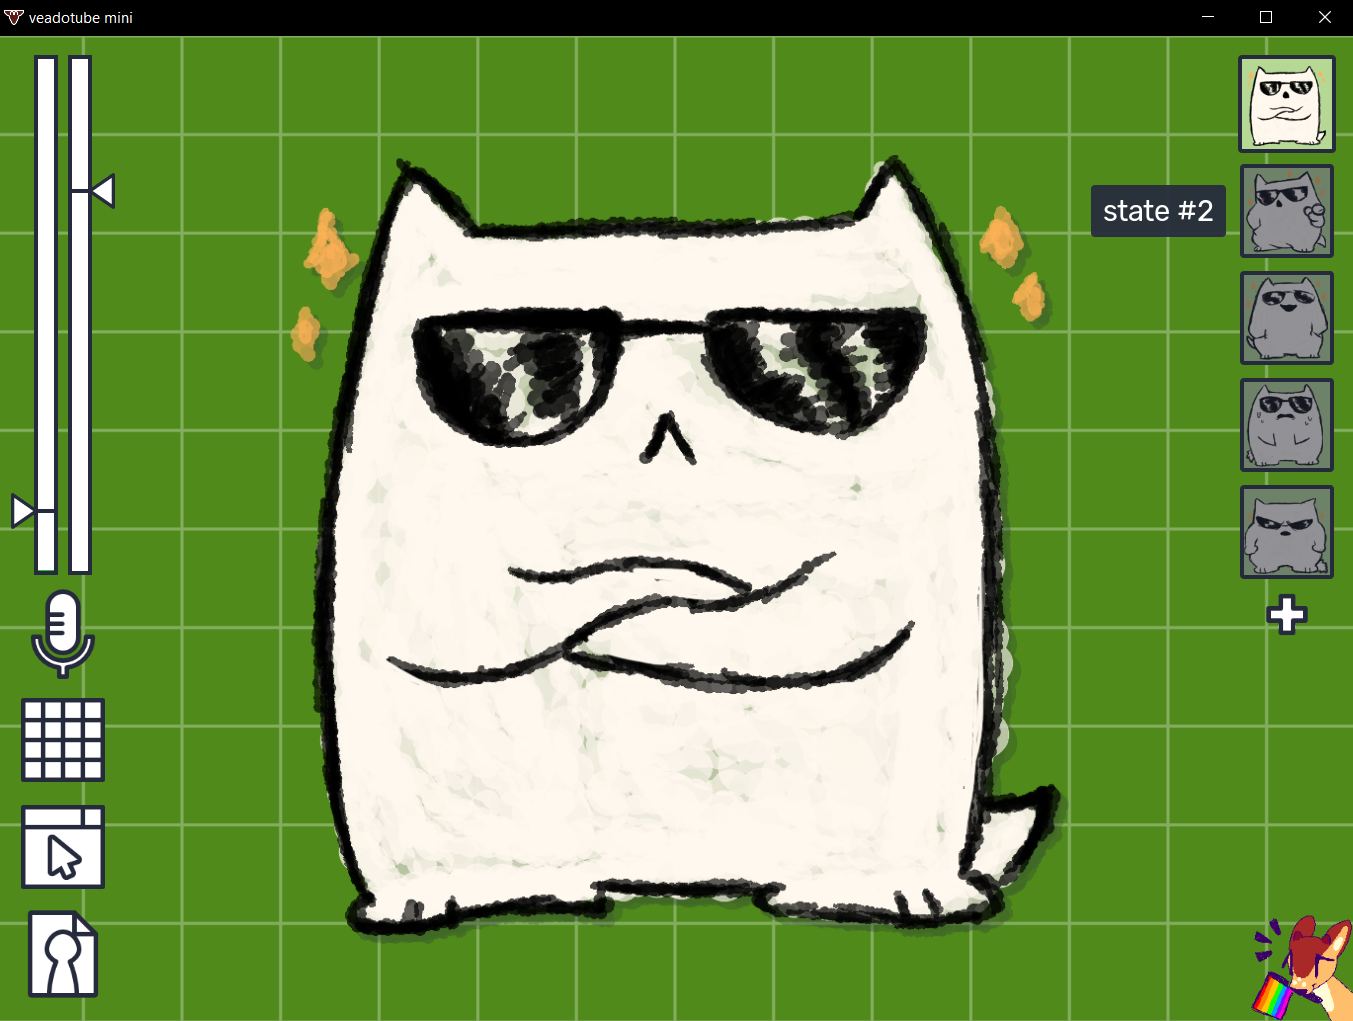
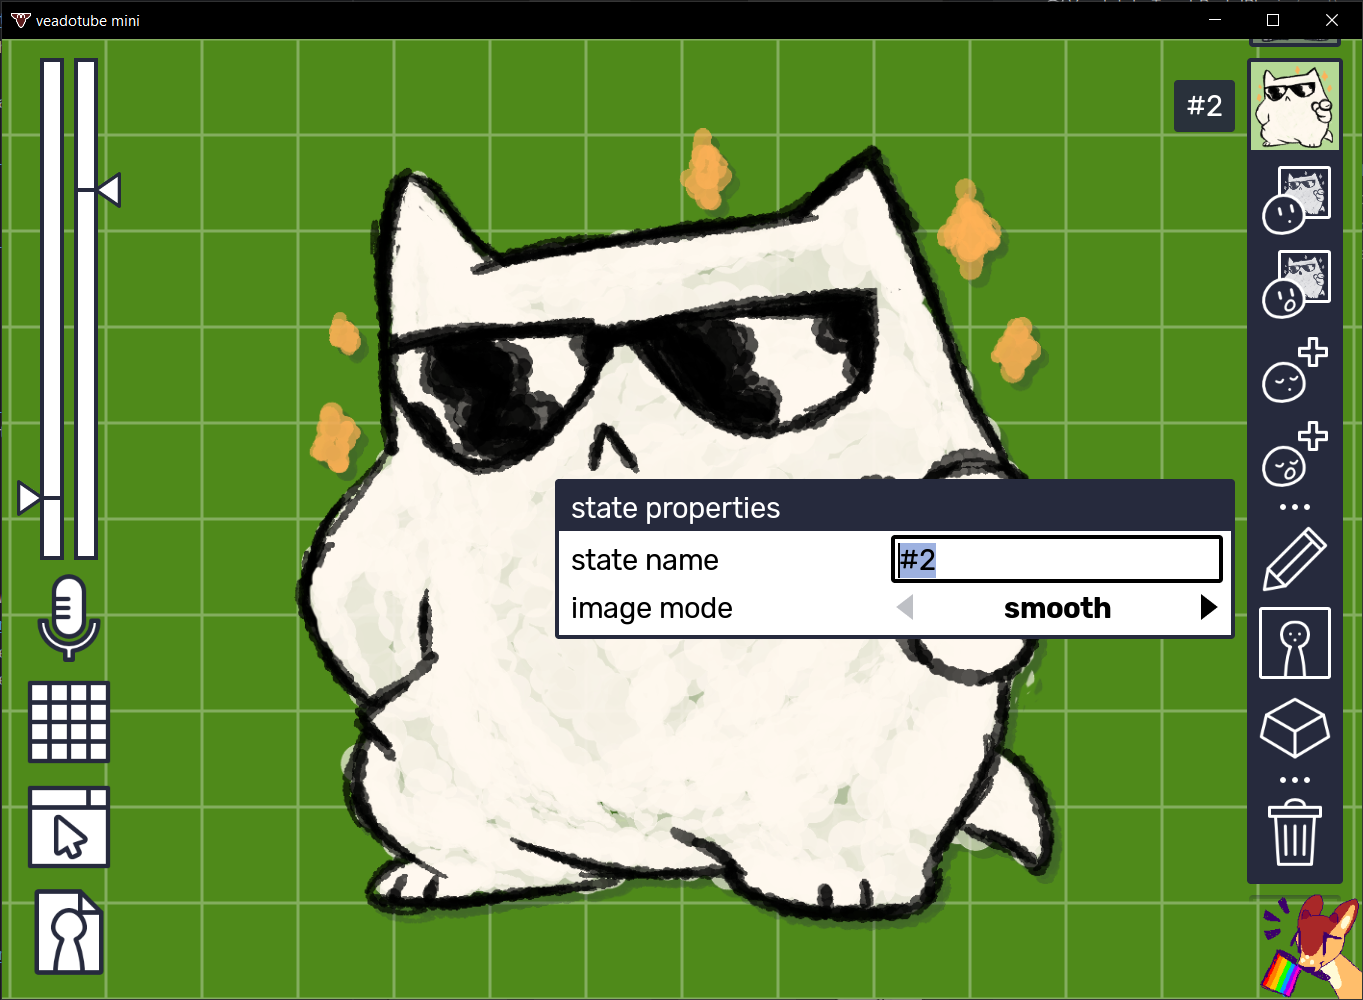
Updated Readme and Added Touch Portal Page Example for v0.7.0

diff --git a/README.md b/README.md
@@ -16,10 +16,10 @@ _This Plugin is free, but you need to buy the Touch Portal Pro upgrade install a
 
 ## Releases
 
-The latest version is 0.6.0 and currently a beta release.
+The latest version is 0.7.0 and currently a beta release.
 
 - Stable enough for general use but hasn't been fully tested.
-- Only Tested with **Veadotube Mini v2.0**
+- Tested with **veadotube mini v2.0a** and **veadotube mini v2.1**
 
 
 ## Getting Help
@@ -74,51 +74,55 @@ Enable has been entered for Request Thumbnail
 
 The example page and the examples below use one of the default avatars, O Gato by BELLA!  
 You can find it in Veadotube Mini by clicking _Avatar Settings > Load Default Avatar..._  
-![Screenshot of the Example Touch Portal Page on Android](readmeAndLicences/readmeImg/example_button_adv_3.png)
+![Screenshot of the Example Touch Portal Page on Android](readmeAndLicences/readmeImg/example_button_adv_2.png)
 
 #### Basic Button Setup
 The Plugin Actions can be found under **Veadotube - Primary Instance** 
 
 **Basic Avatar Change Trigger**
-1. Make sure you have the Avatar you want to use open, and add **Set Avatar State** to you button
+1. Make sure you have the Avatar you want to use open, and add **Set Avatar State from List** to your button
 
-2. Click the dropdown arrow to show all the current Avatars  
-![Screenshot of the Touch Portal showing 'Set Avatar State to' and a dropdown list with Avatar States and IDs](readmeAndLicences/readmeImg/example_button_1.png)
+2. Click the dropdown arrow to show all the current Avatars
+![Screenshot of the Touch Portal showing 'Set Avatar State to' and a dropdown list with Avatar States](readmeAndLicences/readmeImg/example_button_1.png)
+![example_button_adv_5.png](readmeAndLicences%2Fexample_button_adv_5.png)
+You will see the name, or number assigned by veadotube if you didn't set one.  
+Changing the name of a state in veadotube will break your Touch Portal buttons - you will need to come back and update the buttons of any you change.  
+- Select the avatar you want this button to set
+- Alternatively you can use **Set Avatar State by Name** if you'd prefer to use a text box or value to set the name  
+You can copy & paste from the state name filled in veadotube into the text box with this option
+![Screenshot of the Touch Portal showing 'Set Avatar to State with Name' and a text box with the name #3](readmeAndLicences/readmeImg/example_button_2.png)
 
-You will see the name (or number assigned by Veadotube if you didn't set one) and the Avatar ID in brackets.  
-This ID doesn't change and the Plugin uses it, so you can safely change avatar state names in Veadotube without your Touch Portal buttons breaking.  
-3. Select the avatar you want this button to set
 4. Set the Button Text, Background, etc.  
-![Closer Screenshot of the Touch Portal showing a button labeled "Change to #1" 'Set Avatar State to' with State #1 ID '3' selected](readmeAndLicences/readmeImg/example_button_2.png)
+![Closer Screenshot of the Touch Portal showing a button labeled "Change to #1" 'Set Avatar State to' with State #1 selected](readmeAndLicences/readmeImg/example_button_3.png)
 
-5. Repeat with other buttons  
-![Closer Screenshot of the Touch Portal showing a button labeled "Change to #2" 'Set Avatar State to' with State #2 ID 'D' selected](readmeAndLicences/readmeImg/example_button_3.png)
+5. Repeat with other buttons
 
-![Screenshot of Veadotube with State #1 Selected, and State #2 highlighted so the State Name is visible](readmeAndLicences/readmeImg/example_button_4.png)
-_2nd Avatar - no name, given Default of #2. The ID is 'D'_
+![Screenshot of Veadotube with State #2 selected and open so the State Name is visible](readmeAndLicences/readmeImg/example_button_4.png)
+_Opening the avatar state in veadotube shows the name box - you can copy this into Touch Portal text boxes_
 
 You can now press the buttons and change the active avatar!  
+Note: Here **When Plug-in state changes** has been used to make the buttons reactive - If you want buttons to change with the state, even when changed directly in veadotube, see under _Advanced Buttons_ below
 
-![Screenshot of the Example Touch Portal Page on Android with 3 Example Change Buttons. State #1 showing as an Icon](readmeAndLicences/readmeImg/example_button_5.png)
+![Screenshot of the Example Touch Portal Page on Android with 3 Example Change Buttons. State #3 showing as an Icon](readmeAndLicences/readmeImg/example_button_adv_4.png)
+_After Pressing Button #3_
+
+![Screenshot of the Example Touch Portal Page on Android with 3 Example Change Buttons. Now State #1 showing as an Icon](readmeAndLicences/readmeImg/example_button_adv_2.png)
 _After Pressing Button #1_
 
-![Screenshot of the Example Touch Portal Page on Android with 3 Example Change Buttons. Now State #2 showing as an Icon](readmeAndLicences/readmeImg/example_button_6.png)
-_After Pressing Button #2_
 
 
-##### Set Avatar State by ID (Text)
-You can also use a text field or Touch Portal Value to set the Avatar
-![Screenshot of the Touch Portal showing 'Set Avatar to State with ID' with 1F entered in the text box, and 'Set Avatar State to' with the dropdown list with Avatar States and IDs open](readmeAndLicences/readmeImg/example_button_7.png)
-_In this example you can see the state by Text set to 1F (#4). The Set State is shown here for comparison. It's also an easy way to find a State's ID_
-
+##### Custom JSON Requests
+You can send custom JSON Messages to the API, useful if you want to use an API feature that's not supported directly by this plugin
+![Screenshot of the Touch Portal showing 'Send Custom JSON Request' with 'nodes' in the channel text box and a JSON Message String to set the avatar state to '#2'](readmeAndLicences/readmeImg/example_button_5.png)
+_In this example you can see a Custom JSON Request to set the avatar state to '#2' to be sent to the 'nodes' channel_
 
 
 
 #### Refresh Buttons
 You can create buttons to Force a refresh as well
 ![Screenshot of the Touch Portal showing 'Refresh Avatar State List' and 'Refresh Current Avatar State' Actions under On Pressed Actions](readmeAndLicences/readmeImg/example_button_refresh_1.png)  
-You won't need these normally, but that can be useful if you're changing the order/images/names of Avatar States and want to refresh without restarting either Touch Portal of Veadotube.  
-The Plugin will refresh if it sees a new State ID, but will usually only fetch a list when it first connects
+You won't need these normally, but it can be useful if you're running veadotube mini 2.0a and changing the order/images/names of Avatar States and want to refresh without restarting either Touch Portal of Veadotube.  
+From mini 2.1 the Plugin will receive an update if there's a change to any States.
 
 
 #### Current Avatar as an Icon
@@ -143,15 +147,14 @@ You can set up the buttons to react to the Avatar State Changing - this also wor
 
 Add:
 1. _Event: When Plugin State Changes_  
-  Choose _Veadotube Plugin > Primary Instance > Current Avatar State - ID_  
-![Screenshot of the Touch Portal showing 'When the plugin State' event as Current State Avatar - ID changed to 3 and the Change Button Visuals action](readmeAndLicences/readmeImg/example_button_adv_1.png)
+  Choose _Veadotube Plugin > Primary Instance > Current Avatar State - Name_  
+![Screenshot of the Touch Portal showing 'When the plugin State' event as Current State Avatar - Name changed to #1 and the Change Button Visuals action set to change the background colour to Green and Gray. A Do not Change to #1 Event has the 'Restore Button visuals for' 'Background settings' inside](readmeAndLicences/readmeImg/example_button_adv_1.png)
 
-2. Set the 2nd box to changes to and the 3rd to the Avatar ID (Use the Set Avatar State action to find it if you don't know it already)
+2. Set the 2nd box to 'changes to' and the 3rd to the Avatar Name (you can copy and paste this from veadotube)  
 
 3. Add a _Change Button Visuals_ action inside the event and choose how you want the button to show the Avatar State is active  
 
-4. Copy the _When Plugin State Changes_ event but set the 2nd box to _does not change to_ and add a _Restore button visuals_ action  
-![Screenshot of the Touch Portal showing 'When the plugin State' event as Current State Avatar - ID changed to 3 and the Change Button Visuals action set to change the background colour to Green and Gray. A Do not Change to 3 Event has the 'Restore Button visuals for' 'Background settings' inside](readmeAndLicences/readmeImg/example_button_adv_2.png)
+4. Copy the _When Plugin State Changes_ event but set the 2nd box to _does not change to_ and add a _Restore button visuals_ action
 
 5. Repeat on your other buttons
 
@@ -160,8 +163,8 @@ Now you can see which avatar is active by the button that's highlighted
 ![Screenshot of the Example Touch Portal Page on Android with 3 Example Change Buttons. Change to #1 Button is Green-Gray and State #1 showing as an Icon](readmeAndLicences/readmeImg/example_button_adv_3.png)
 _Avatar State #1 is Active_  
 
-![Screenshot of the Example Touch Portal Page on Android with 3 Example Change Buttons. Change to #2 Button is Green-Gray and State #2 showing as an Icon](readmeAndLicences/readmeImg/example_button_adv_4.png)
-_Avatar State #2 is Active_  
+![Screenshot of the Example Touch Portal Page on Android with 3 Example Change Buttons. Change to #3 Button is Green-Gray and State #3 showing as an Icon](readmeAndLicences/readmeImg/example_button_adv_4.png)
+_Avatar State #3 is Active_  
 
 
 
@@ -172,14 +175,12 @@ You can set a 'button' to show the name of the currently active avatar
 Add:
 1. _Event: When Plugin State Changes_
 
-Choose _Veadotube Plugin > Primary Instance > Current Avatar State - Name_ or _Name & ID_
+Choose _Veadotube Plugin > Primary Instance > Current Avatar State - Name_
+![Screenshot of the Touch Portal showing 'When the plugin State' event as 'Current State Avatar - Name' does not change to blank and the Change Button Visuals action set to change Text. The Text Box is empty](readmeAndLicences/readmeImg/example_button_name_1.png)
 
-![Screenshot of the Touch Portal showing 'When the plugin State' event as 'Current State Avatar - Name & ID' does not change to blank and the Change Button Visuals action set to change Text. The Text Box is empty](readmeAndLicences/readmeImg/example_button_name_1.png)
-
-2. Add a _Change Button Visuals_ action inside the event and set it to use the Name or Name and ID to change the button text
-
-![Screenshot of the Touch Portal showing 'When the plugin State' event as 'Current State Avatar - Name & ID' does not change to blank and the Change Button Visuals action set to change Text. The Variable selector is open to Veadotube Plugin, Primary Instance, 'Current Avatar State - Name & ID'](readmeAndLicences/readmeImg/example_button_name_2.png)
+2. Add a _Change Button Visuals_ action inside the event and set it to use the Name to change the button text
+![Screenshot of the Touch Portal showing 'When the plugin State' event as 'Current State Avatar - Name' does not change to blank and the Change Button Visuals action set to change Text. The Variable selector is open to Veadotube Plugin, Primary Instance, 'Current Avatar State - Name'](readmeAndLicences/readmeImg/example_button_name_2.png)
 _You can add other Text to the change action as well_
 
-The Button should now show the current active Avatar Name and/or ID
+The Button should now show the current active Avatar Name
 
